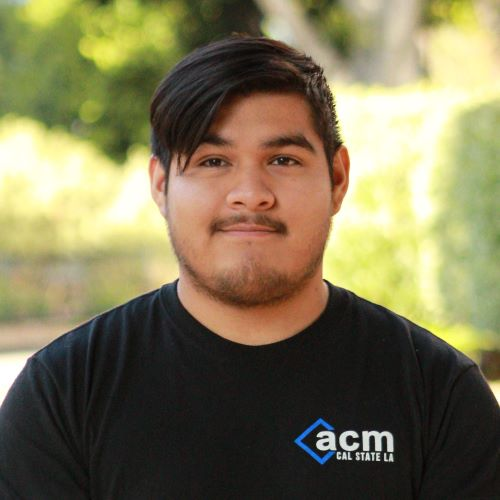
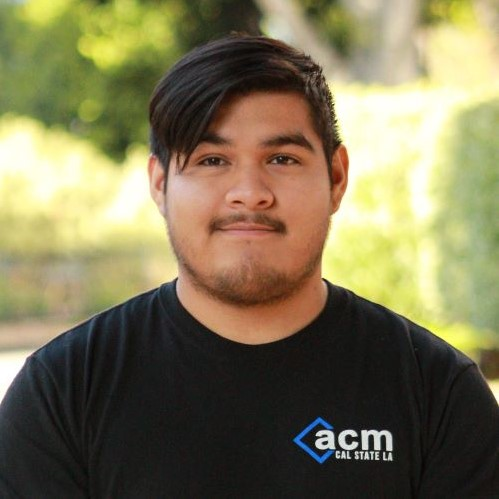
ACMW-0063: Replaced leader images with smaller sized ones

diff --git a/src/components/projects/Projects.js b/src/components/projects/Projects.js
@@ -138,7 +138,7 @@ class Projects extends React.Component {
                                                             './spring2020/web2.jpg',
                                                             './spring2020/web3.jpg'
                                                              ]}
-                                                        projectLeadersImages={["./leaders/Srivats V.png", "./leaders/Giovanni C.png", "./leaders/Kevin F.JPG"]}
+                                                        projectLeadersImages={["./leaders/Srivats.JPG", "./leaders/GiovanniC.JPG", "./leaders/Kevin.JPG"]}
                                                         projectLeaders={["Srivats Venkataraman", "Giovanni Castellanos", "Kevin Flores"]}
                                                         />
                                                 </Tab.Pane>
@@ -154,7 +154,7 @@ class Projects extends React.Component {
                                                             './spring2020/space2.jpg',
                                                             './spring2020/space3.jpg'
                                                              ]}
-                                                        projectLeadersImages={["./leaders/Andrew G.png", "./leaders/Elton M.png", "./leaders/Grover.JPG", "./leaders/Luis.JPG"]}
+                                                        projectLeadersImages={["./leaders/Andrew.JPG", "./leaders/Elton.JPG", "./leaders/Grover.JPG", "./leaders/Luis.JPG"]}
                                                         projectLeaders={["Andrew Gonzalez", "Elton Lin", "John Grover", "Luis Gonzalez"]}
                                                         />
                                                 </Tab.Pane>
@@ -188,7 +188,7 @@ class Projects extends React.Component {
                                                             './fall2019/space4.jpg',
                                                             './fall2019/space5.jpg'
                                                              ]}
-                                                        projectLeadersImages={['./leaders/Andrew G.png','./leaders/Cristian C.png', './leaders/Elton M.png']}
+                                                        projectLeadersImages={['./leaders/Andrew.JPG','./leaders/Cristian.JPG', './leaders/Elton.JPG']}
                                                         projectLeaders={['Andrew Gonzalez', 'Cristian Corrales', 'Elton Lin']}
                                                         />
                                                 </Tab.Pane>
@@ -206,7 +206,7 @@ class Projects extends React.Component {
                                                             './fall2019/accord3.jpg', 
                                                             './fall2019/accord4.jpg'
                                                         ]}
-                                                        projectLeadersImages={['./leaders/Emily P.png', './leaders/Ingelbert F.png', './leaders/Srivats V.png', './leaders/Deric K.png']}
+                                                        projectLeadersImages={['./leaders/Emily.JPG', './leaders/Ingelbert.JPG', './leaders/Srivats.JPG', './leaders/Deric.JPG']}
                                                         projectLeaders={['Emily Pascua', 'Ingelbert Figueroa', 'Srivats Venkataraman', 'Deric Kwok']}
                                                         />
                                                 </Tab.Pane>
@@ -234,7 +234,7 @@ class Projects extends React.Component {
                                                         technologies={['HTML5', 'CSS', 'JavaScript', 'Bootstrap']}
                                                         poster='./spring2019/web-flyer.jpg'
                                                         projectImages={['./spring2019/web1.jpg', './spring2019/web2.jpg', './spring2019/web3.jpg', './spring2019/web4.jpg', './spring2019/web5.jpg', './spring2019/web6.jpg']}
-                                                        projectLeadersImages={['./leaders/Deric K.png', './leaders/Brian.jpg']}
+                                                        projectLeadersImages={['./leaders/Deric.JPG', './leaders/Brian.jpg']}
                                                         projectLeaders={['Deric Kwok', 'Brian Hernandez']}
                                                         />
                                                 </Tab.Pane>
@@ -247,7 +247,7 @@ class Projects extends React.Component {
                                                         technologies={['Android Studio', 'Java']}
                                                         poster='./spring2019/android-flyer.jpg'
                                                         projectImages={['./spring2019/android1.jpg', './spring2019/android2.jpg', './spring2019/android3.jpg', './spring2019/android4.jpg', './spring2019/android5.jpg', './spring2019/android6.jpg']}
-                                                        projectLeadersImages={['./leaders/Ingelbert F.png', './leaders/Emily P.png', './leaders/Srivats V.png']}
+                                                        projectLeadersImages={['./leaders/Ingelbert.JPG', './leaders/Emily.JPG', './leaders/Srivats.JPG']}
                                                         projectLeaders={['Ingelbert Figueroa', 'Emily Pascua', 'Srivats Venkataraman']}
                                                         />
                                                 </Tab.Pane>

diff --git a/src/components/board/Board.js b/src/components/board/Board.js
@@ -28,28 +28,28 @@ import Ralph2020 from "./2020-2021-leaders/Ralph.jpg";
 import Robert2020 from "./2020-2021-leaders/Robert.jpg";
 import Sameen2020 from "./2020-2021-leaders/Sameen.jpg";
 import Tracy2020 from "./2020-2021-leaders/Tracy.jpg";
-import Randy2020 from "./2020-2021-leaders/Randy Moss Advisor-2.jpg";
+import Randy2020 from "./2020-2021-leaders/Randal-Moss-Advisor.JPG";
 import Wilson2020 from "./2020-2021-leaders/wilson.jpg"
-import Kalvin2020 from "./2020-2021-leaders/Kalvin M.png";
+import Kalvin2020 from "./2020-2021-leaders/Kalvin.JPG";
 
 // 2019-20 leaders
-import Andrew2019 from "./2019-2020-leaders/Andrew G.png";
-import Ayush2019 from "./2019-2020-leaders/Ayush.png";
-import Cristian2019 from "./2019-2020-leaders/Cristian C.png";
+import Andrew2019 from "./2019-2020-leaders/Andrew.JPG";
+import Ayush2019 from "./2019-2020-leaders/Ayush.JPG";
+import Cristian2019 from "./2019-2020-leaders/Cristian.JPG";
 import DavidT2019 from "./2019-2020-leaders/David.jpg";
-import Deric2019 from "./2019-2020-leaders/Deric K.png";
-import Diego2019 from "./2019-2020-leaders/Diego F.png";
-import Elton2019 from "./2019-2020-leaders/Elton M.png";
-import George2019 from "./2019-2020-leaders/George C.png";
-import GeovannyH2019 from "./2019-2020-leaders/Geovanny H.png";
-import GioC2019 from "./2019-2020-leaders/Giovanni C.png";
-import Kalvin2019 from "./2019-2020-leaders/Kalvin M.png";
-import Srivats2019 from "./2019-2020-leaders/Srivats V.png";
-import Grover2019 from "./2019-2020-leaders/Grover.JPG";
+import Deric2019 from "./2019-2020-leaders/Deric.JPG";
+import Diego2019 from "./2019-2020-leaders/Diego.JPG";
+import Elton2019 from "./2019-2020-leaders/Elton.JPG";
+import George2019 from "./2019-2020-leaders/George.JPG";
+import GeovannyH2019 from "./2019-2020-leaders/GeovannyH.JPG";
+import GioC2019 from "./2019-2020-leaders/GiovanniC.JPG";
+import Kalvin2019 from "./2019-2020-leaders/Kalvin.JPG";
+import Srivats2019 from "./2019-2020-leaders/Srivats.JPG";
+import Grover2019 from "./2019-2020-leaders/Grover.jpg";
 import Luis2019 from "./2019-2020-leaders/Luis.JPG";
 import Ralph2019 from "./2019-2020-leaders/Ralph.jpg";
-import Kevin2019 from "./2019-2020-leaders/Kevin F.JPG";
-import Randy2019 from "./2019-2020-leaders/Randy Moss Advisor-2.jpg";
+import Kevin2019 from "./2019-2020-leaders/Kevin.JPG";
+import Randy2019 from "./2019-2020-leaders/Randal-Moss-Advisor.JPG";
 import Wilson2019 from "./2019-2020-leaders/wilson.jpg";
 import Vacant from "./2019-2020-leaders/Vacant.png";
 
